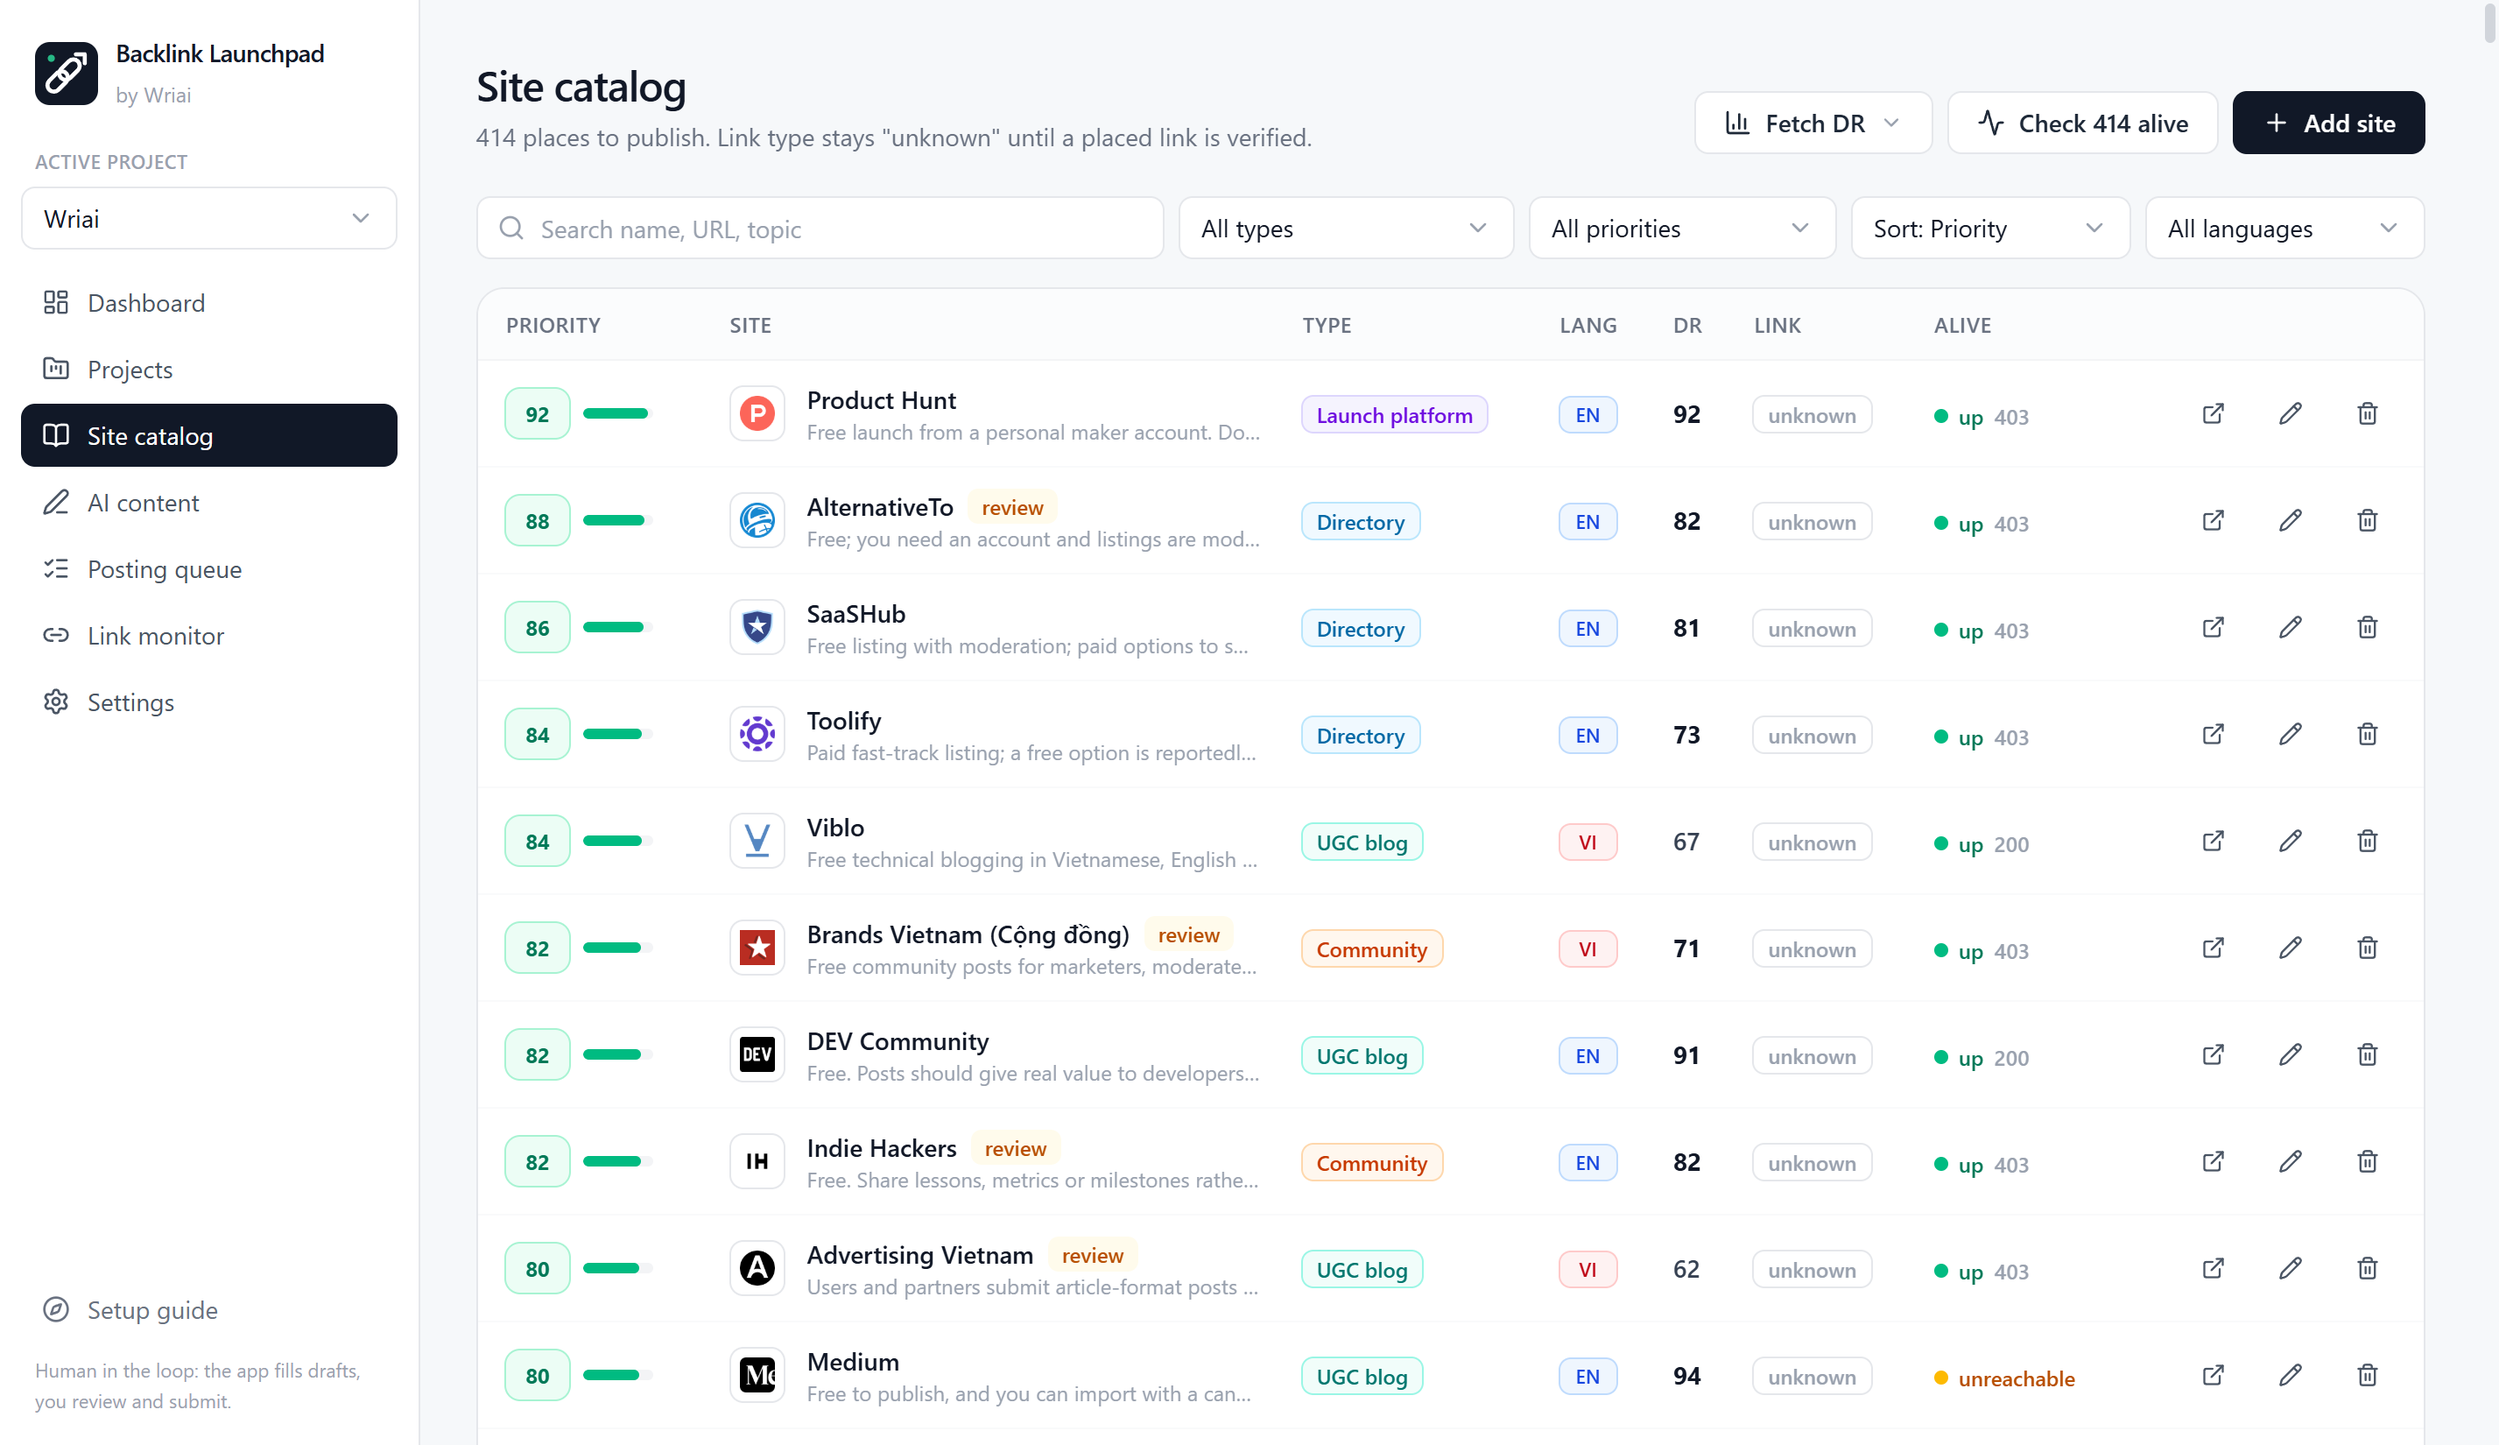
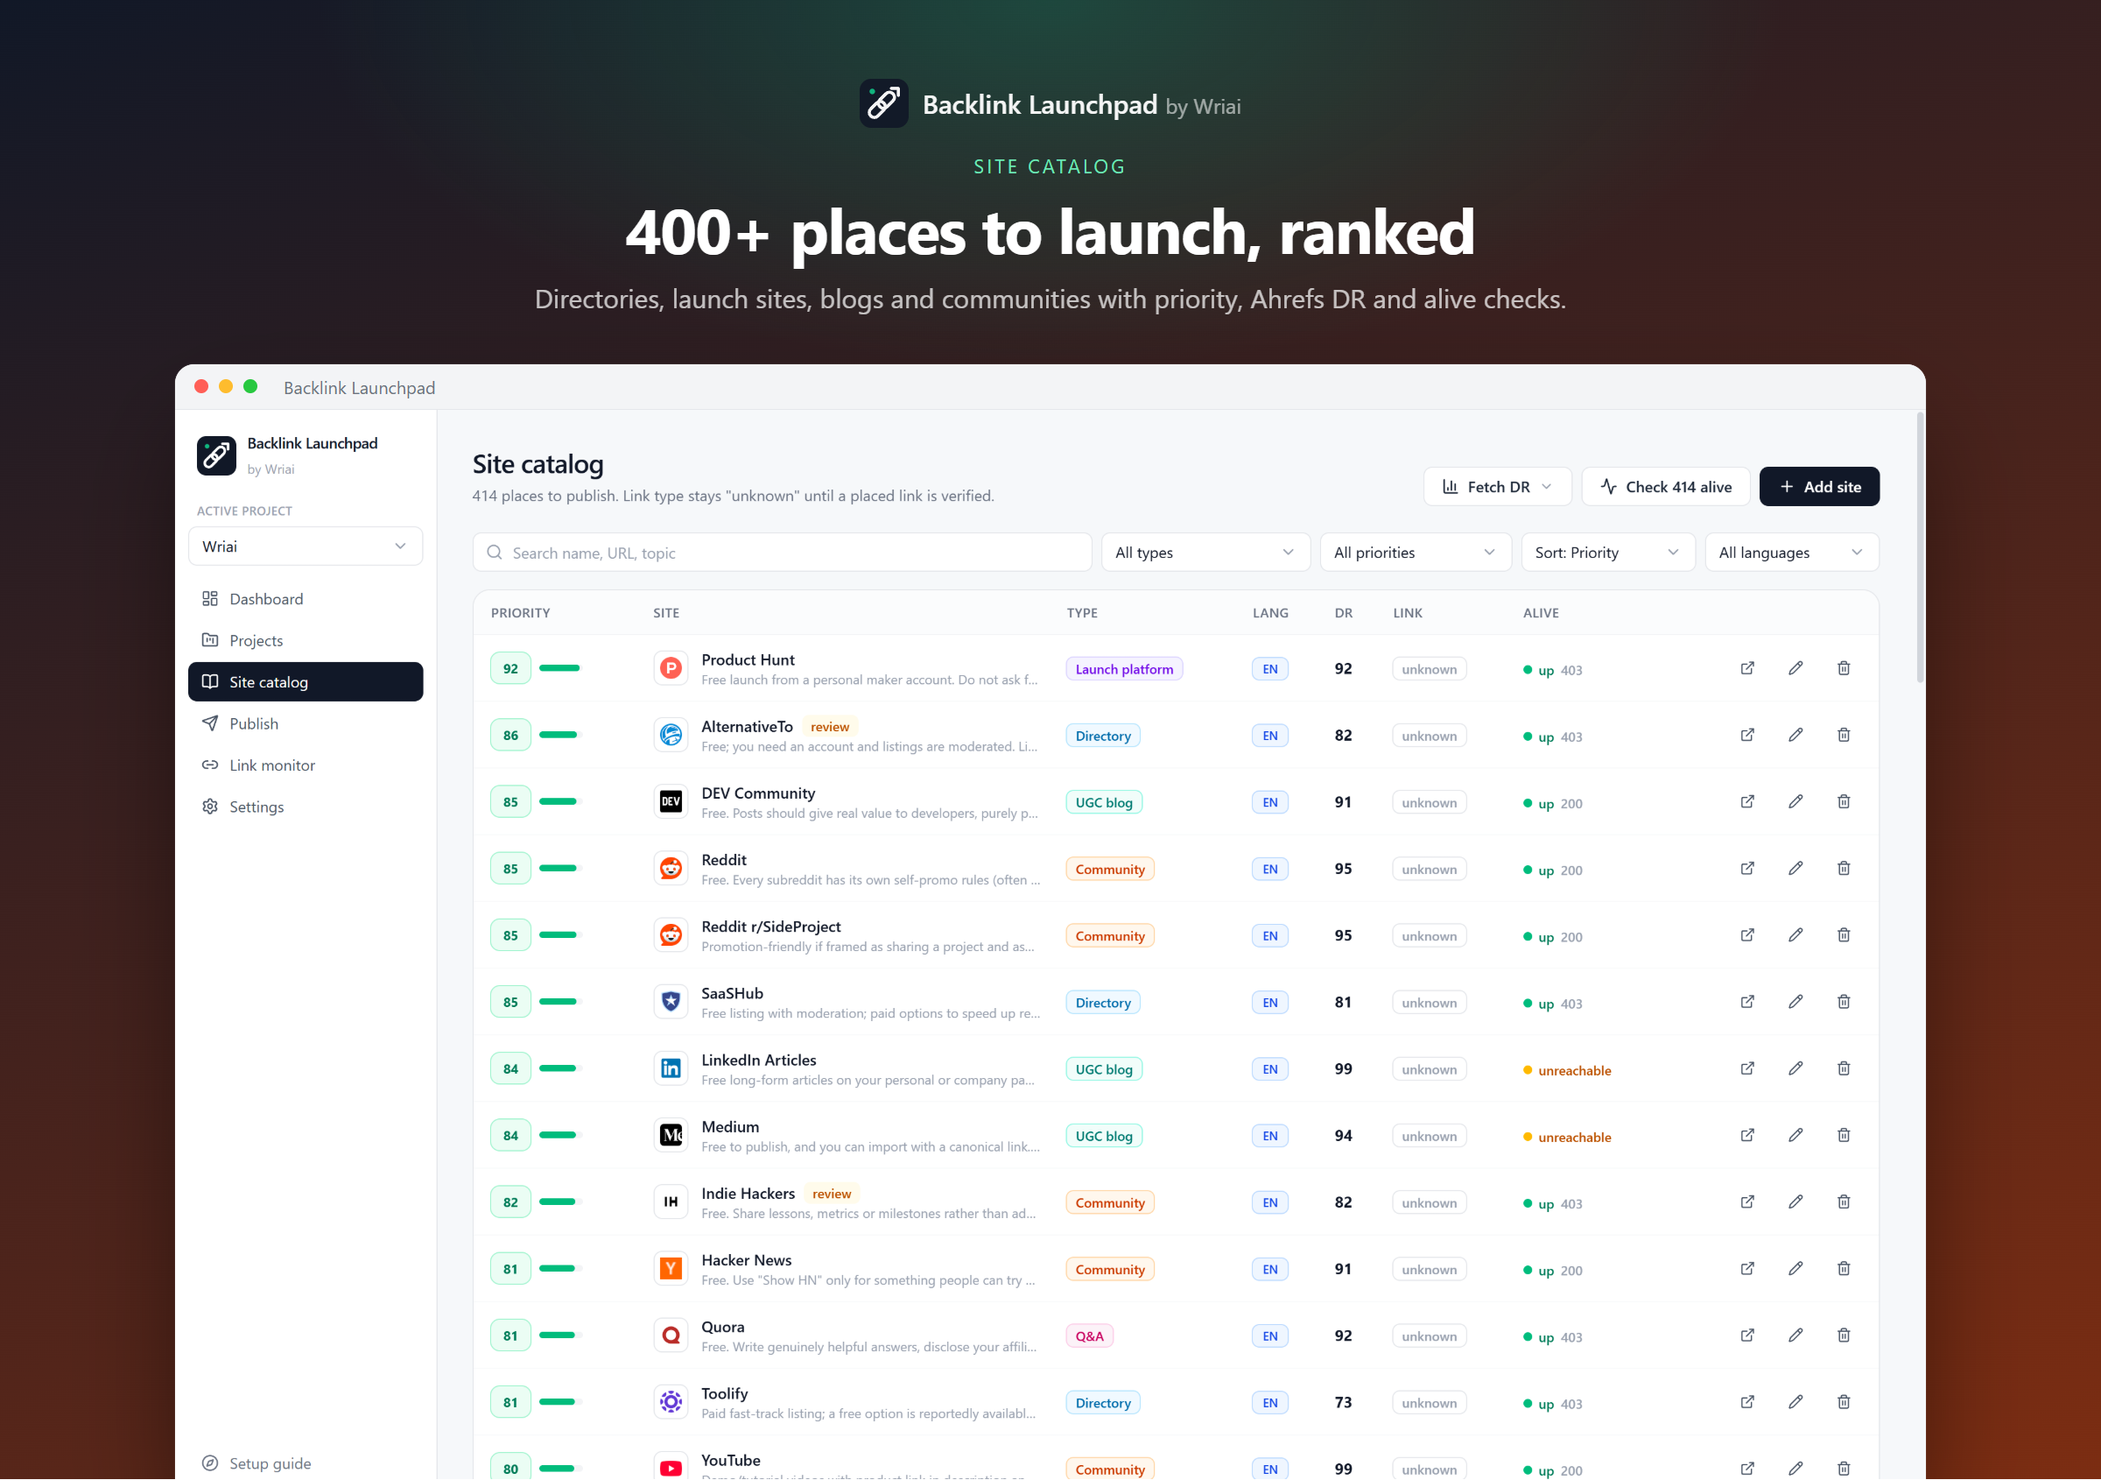
Fix project stats counting (subqueries matched their own id); marketing screenshots in README

diff --git a/src/main/repo.ts b/src/main/repo.ts
@@ -97,16 +97,18 @@ export const projectRepo = {
   },
   delete: (id: number) => getDb().delete(projects).where(eq(projects.id, id)).run(),
   stats: (): ProjectStats[] => {
+    // Qualified outer column on purpose: an interpolated ${projects.id} renders as a bare "id", which SQLite
+    // resolves to the subquery's own table, so every count came out as 0 or 1.
     const db = getDb()
     return db
       .select({
         projectId: projects.id,
-        placed: sql<number>`(SELECT COUNT(*) FROM placed_links l WHERE l.project_id = ${projects.id})`,
-        live: sql<number>`(SELECT COUNT(*) FROM placed_links l WHERE l.project_id = ${projects.id} AND l.page_live = 1 AND l.link_found = 1)`,
-        dofollow: sql<number>`(SELECT COUNT(*) FROM placed_links l WHERE l.project_id = ${projects.id} AND l.page_live = 1 AND l.link_found = 1 AND l.rel = 'dofollow')`,
-        pendingTasks: sql<number>`(SELECT COUNT(*) FROM tasks t WHERE t.project_id = ${projects.id} AND t.status IN ('queued','opened'))`,
-        postedTasks: sql<number>`(SELECT COUNT(*) FROM tasks t WHERE t.project_id = ${projects.id} AND t.status = 'posted')`,
-        drafts: sql<number>`(SELECT COUNT(*) FROM contents c WHERE c.project_id = ${projects.id})`
+        placed: sql<number>`(SELECT COUNT(*) FROM placed_links l WHERE l.project_id = "projects"."id")`,
+        live: sql<number>`(SELECT COUNT(*) FROM placed_links l WHERE l.project_id = "projects"."id" AND l.page_live = 1 AND l.link_found = 1)`,
+        dofollow: sql<number>`(SELECT COUNT(*) FROM placed_links l WHERE l.project_id = "projects"."id" AND l.page_live = 1 AND l.link_found = 1 AND l.rel = 'dofollow')`,
+        pendingTasks: sql<number>`(SELECT COUNT(*) FROM tasks t WHERE t.project_id = "projects"."id" AND t.status IN ('queued','opened'))`,
+        postedTasks: sql<number>`(SELECT COUNT(*) FROM tasks t WHERE t.project_id = "projects"."id" AND t.status = 'posted')`,
+        drafts: sql<number>`(SELECT COUNT(*) FROM contents c WHERE c.project_id = "projects"."id")`
       })
       .from(projects)
       .all()

diff --git a/README.md b/README.md
@@ -6,7 +6,7 @@
 <p align="center"><b>by <a href="https://wriai.com">Wriai</a></b> · plan, write and track launch posts and backlinks on 400+ directories and communities</p>
 
 <p align="center">
-  <img src="docs/screenshots/catalog.png" width="860" alt="Site catalog with priority, DR and favicons" />
+  <img src="docs/screenshots/hero.png" width="900" alt="Backlink Launchpad: dashboard, link monitor and site catalog" />
 </p>
 
 Backlink Launchpad is a free desktop app for founders and marketers who promote a product by listing it on directories,
@@ -22,6 +22,14 @@ everything, and you review and click submit yourself.
 | **AI writing** | On the Publish page, one click writes a unique, value-first post per site, in that site's language, length and format (HTML, Markdown or plain text). WYSIWYG editor, preview, Regenerate with your own instructions, and PDF export (for Yumpu, Issuu, Scribd, SlideShare). |
 | **Publish** | Opens each submit page in a separate browser profile, fills title and body, attaches logo and screenshots. **Start session** walks the queue by priority and saves the live post URL automatically when you publish (with Undo). |
 | **Link monitor** | Re-checks every placed link: page live, link present, `rel` (dofollow, nofollow, ugc, sponsored), anchor text. |
+
+## Screenshots
+
+| | |
+| --- | --- |
+| <img src="docs/screenshots/dashboard.png" alt="Dashboard" /> | <img src="docs/screenshots/projects.png" alt="Projects" /> |
+| <img src="docs/screenshots/link-monitor.png" alt="Link monitor" /> | <img src="docs/screenshots/catalog.png" alt="Site catalog" /> |
+| <img src="docs/screenshots/publish.png" alt="Publish" /> | |
 
 ## Responsible use
 
